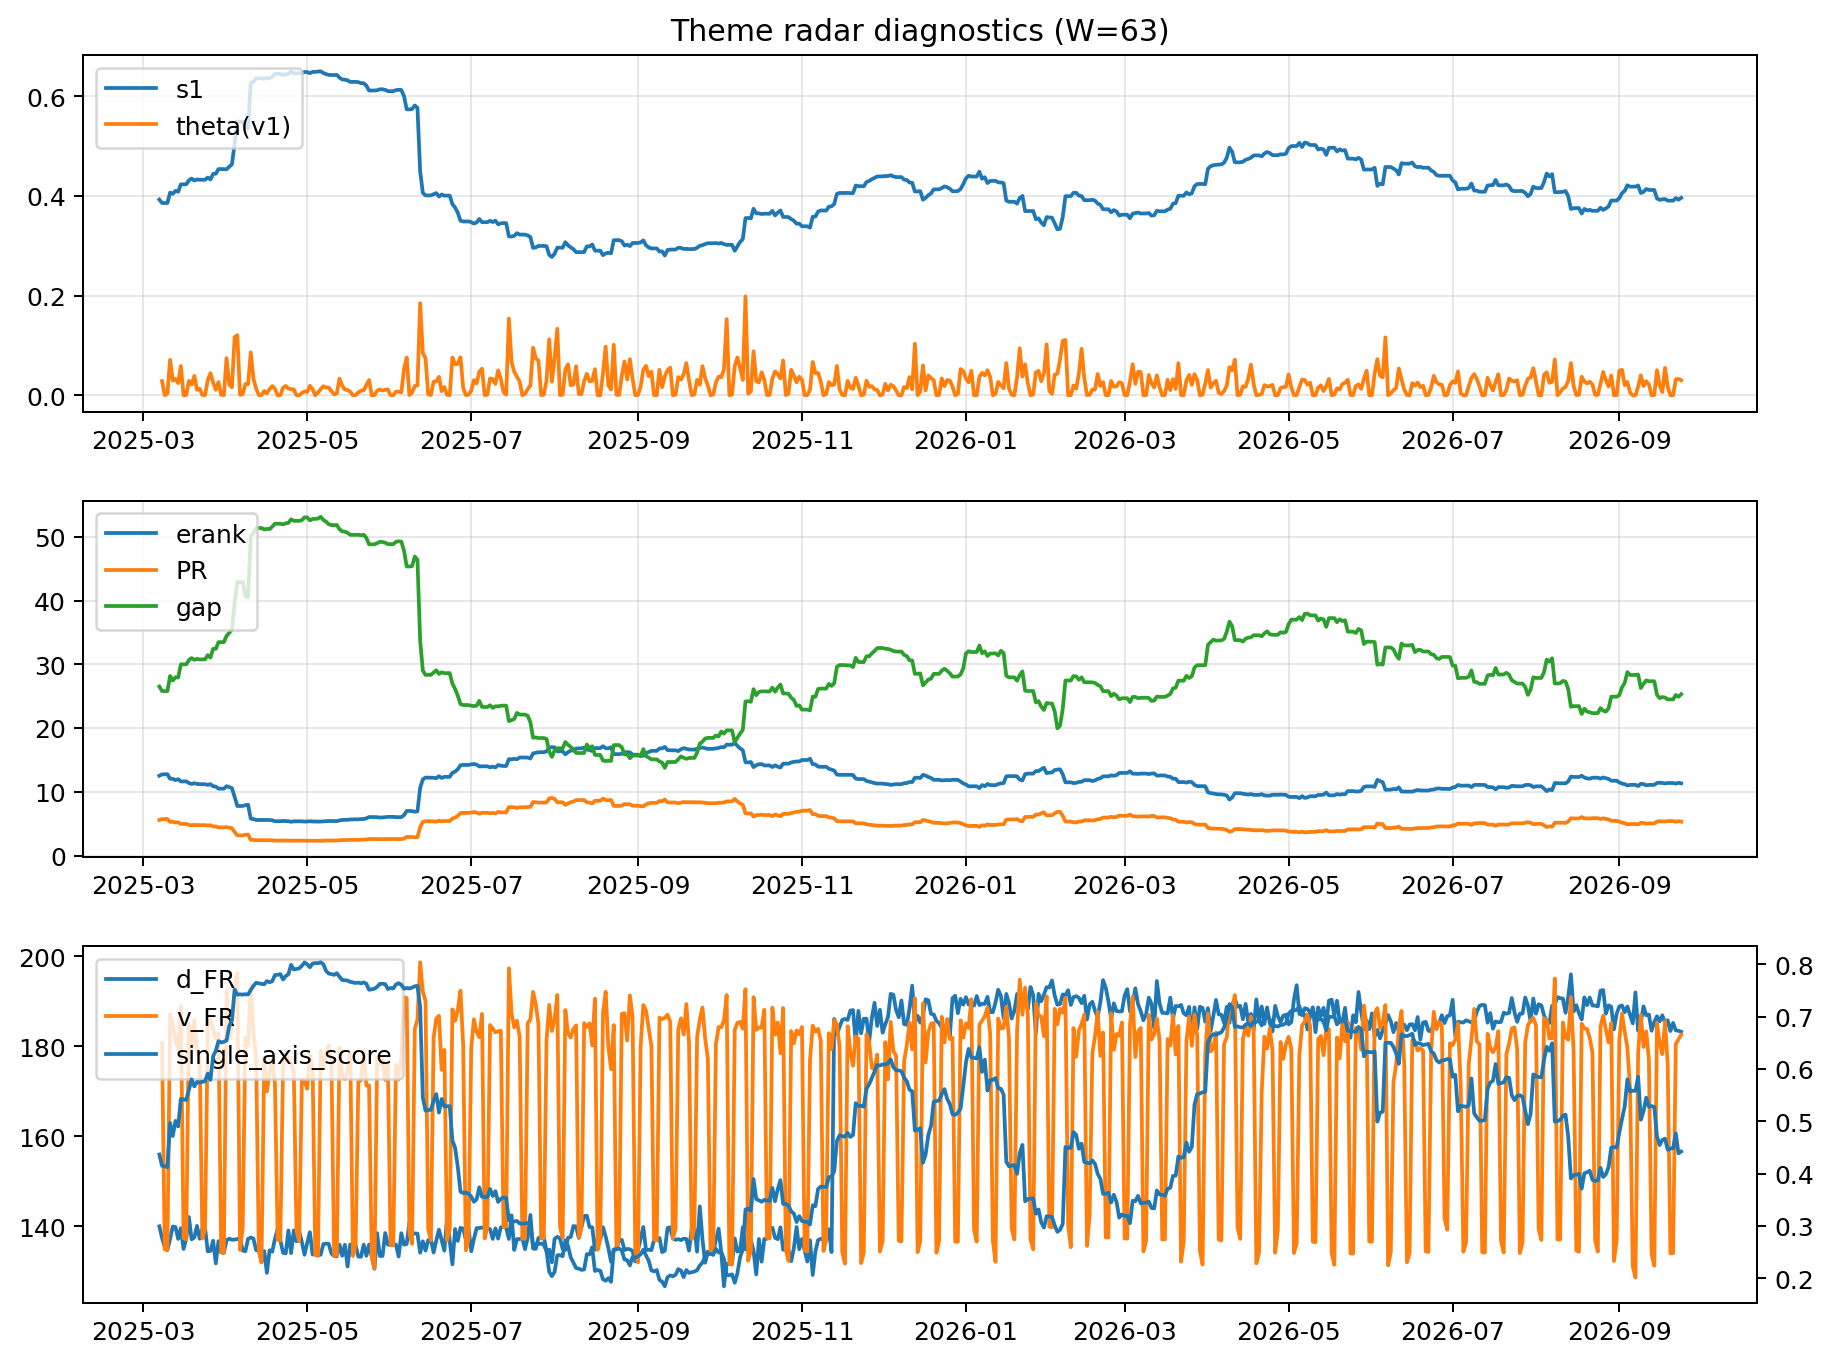
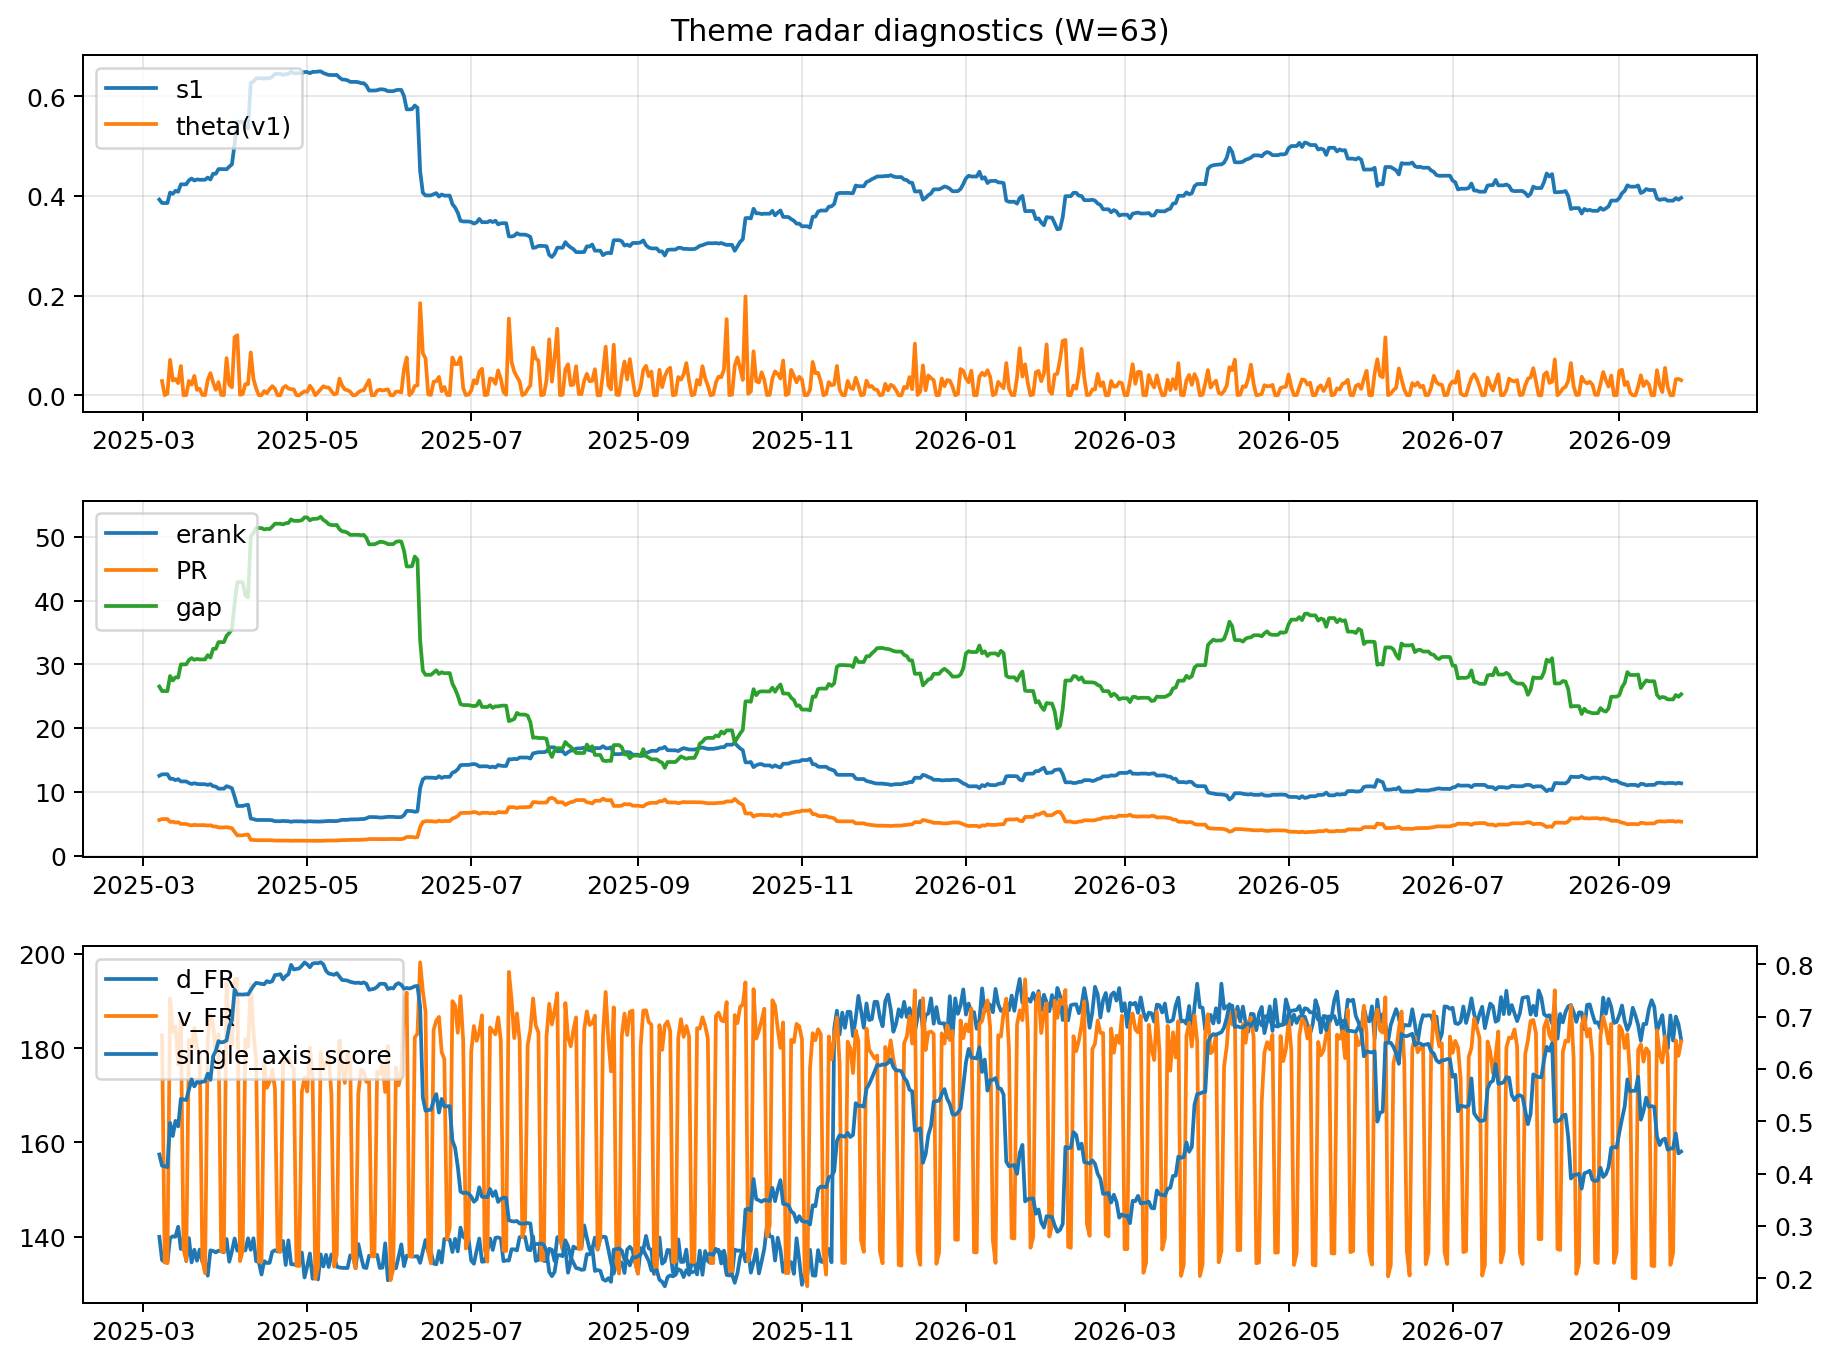
log: 2026-09-24 | sha256:358d1b821d43e4b8fc9a2fc19eefff3dd795aed3a8232a710a1285dfd854692a

diff --git a/logs/2026-09-24.md b/logs/2026-09-24.md
@@ -3,43 +3,43 @@
 ![diagnostic W63](../assets/diagnostic/2026-09-24_W63.png)
 
 ## Leaders (v1) — W=63
-- **Nuclear_Uranium** (0.0828063919145121)
-- Semis (0.0665794761955931)
-- Quantum (0.061726324186838)
+- **Nuclear_Uranium** (0.0828063945883761)
+- Semis (0.0665794786198393)
+- Quantum (0.0617263274969085)
 
 ## Challengers — W=63
-**v2:** Semis (0.0856925448423724), Rates (0.085360722015973), Genomics_Bio (0.0755273309038968)
-**v3:** Metals (0.0839679396720903), Software_Cloud (0.070202168781111), Genomics_Bio (0.0602063101036391)
+**v2:** Semis (0.0856925342470066), Rates (0.0853607740354754), Genomics_Bio (0.0755273334726211)
+**v3:** Metals (0.0839679323729157), Software_Cloud (0.0702021774488735), Genomics_Bio (0.0602063035716067)
 
 ## Migration (20D slope) — W=63
 **Top risers:**
-- axis_DataCenter_Infra: 0.0005234745326751
-- axis_Rates: 0.000276075463849
-- axis_MegaCap_AI: 0.0001993740880424
-- axis_Genomics_Bio: 0.0001758320565187
-- axis_Equity_US: 0.0001594898665772
-- axis_Credit: 0.0001395017375343
-- axis_Sector_Utilities: 0.0001362939278046
-- axis_Commodities: 0.0001272288965362
-- axis_Robotics: 0.0001044057701363
-- axis_Sector_Materials: 8.767632536105965e-05
+- axis_DataCenter_Infra: 0.0005234743856403
+- axis_Rates: 0.0002760784004204
+- axis_MegaCap_AI: 0.0001993739816781
+- axis_Genomics_Bio: 0.000175831926835
+- axis_Equity_US: 0.0001594896435038
+- axis_Credit: 0.0001395019091512
+- axis_Sector_Utilities: 0.0001362938872695
+- axis_Commodities: 0.0001272287862122
+- axis_Robotics: 0.0001044056202687
+- axis_Sector_Materials: 8.767625860408321e-05
 
 **Top fallers:**
-- axis_Critical_Minerals: -7.628955444118375e-05
-- axis_Defense: -0.0001212941294704
-- axis_Sector_RealEstate: -0.0001470918675444
-- axis_Sector_Health: -0.0001736681328389
-- axis_Sector_ConsStap: -0.000197445199546
-- axis_Sector_Energy: -0.0002317082039099
-- axis_Metals: -0.0002446071477449
-- axis_Nuclear_Uranium: -0.0003162059932586
-- axis_Cyber: -0.0003574757310838
-- axis_Crypto: -0.0004285114094696
+- axis_Critical_Minerals: -7.628962465132432e-05
+- axis_Defense: -0.0001212942058661
+- axis_Sector_RealEstate: -0.0001470919134937
+- axis_Sector_Health: -0.0001736680778449
+- axis_Sector_ConsStap: -0.0001974451660759
+- axis_Sector_Energy: -0.000231708231696
+- axis_Metals: -0.0002446072487643
+- axis_Nuclear_Uranium: -0.0003162062649396
+- axis_Cyber: -0.0003574758099281
+- axis_Crypto: -0.0004285114890337
 
 ## Risk line (W=63)
-- s1: 0.3960555921991536
-- theta_v1: 0.030197757079266
-- v_FR: 182.55550593465296
+- s1: 0.3960555697588233
+- theta_v1: 0.0301977595081563
+- v_FR: 181.4560402335764
 - single_axis_score: 0.4423280423280423
 
 ## Interpretation
@@ -48,7 +48,7 @@
 - Action: Tomorrow watchlist: DataCenter_Infra, Rates, MegaCap_AI, Genomics_Bio, Equity_US + v2_top1=Semis
 - Action: Hedge note: normal correlation stability.
 
-- Percentiles (W=63 history): vfr_pct=0.60, theta_pct=0.67, s1_pct=0.41, score_pct=0.40.
+- Percentiles (W=63 history): vfr_pct=0.54, theta_pct=0.67, s1_pct=0.41, score_pct=0.40.
 
 ---
[2 lines of base64/hex data omitted]
